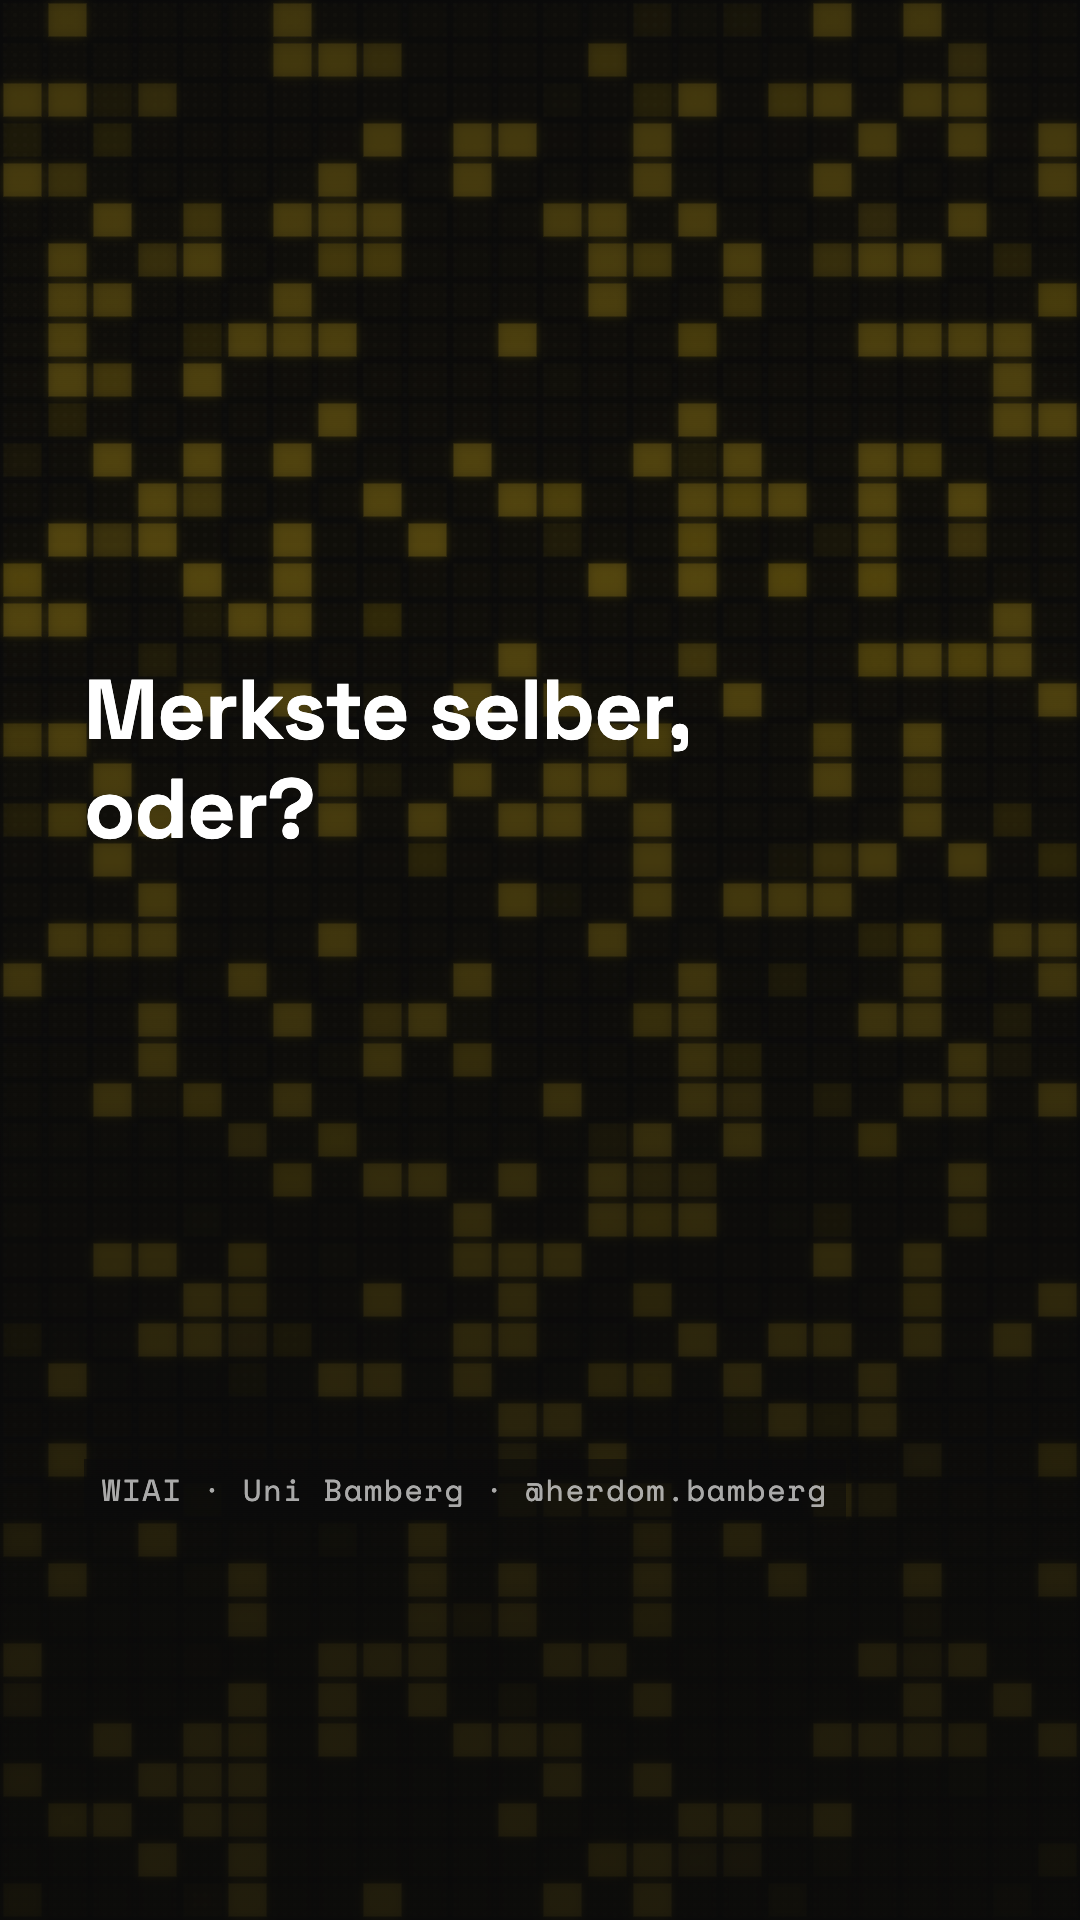
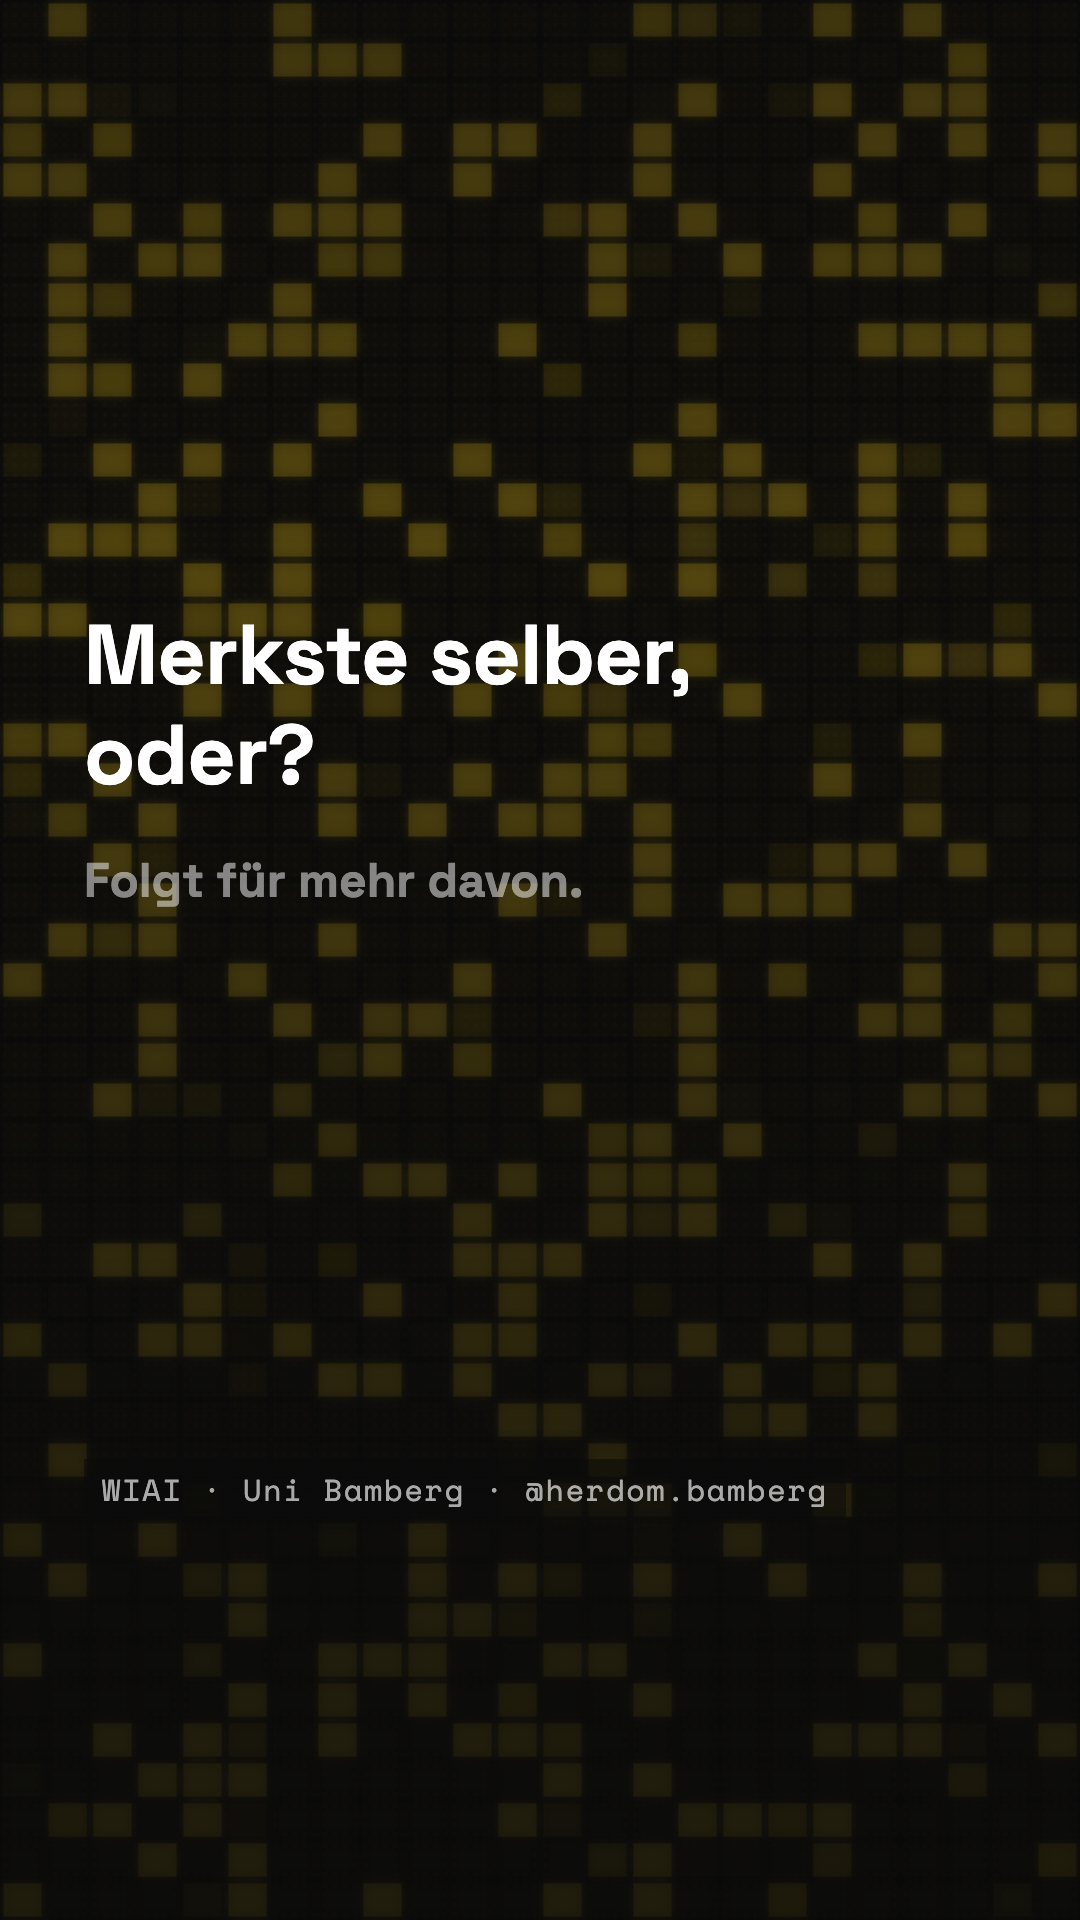
Add demo button to Vorhänge post, fix slide 3 preview frame timing
Button subtext appears at Act3 local frames 52-68 (absolute ~268+).
Preview still now captured at frame 300 (fully visible).

diff --git a/pr-wiai/wiai-social/src/Root.tsx b/pr-wiai/wiai-social/src/Root.tsx
@@ -47,6 +47,7 @@ const contrarianoerhaengePost: Post = {
   },
   slide3: {
     text: "Merkste selber, oder?",
+    button: "Folgt für mehr davon.",
   },
 };
 
